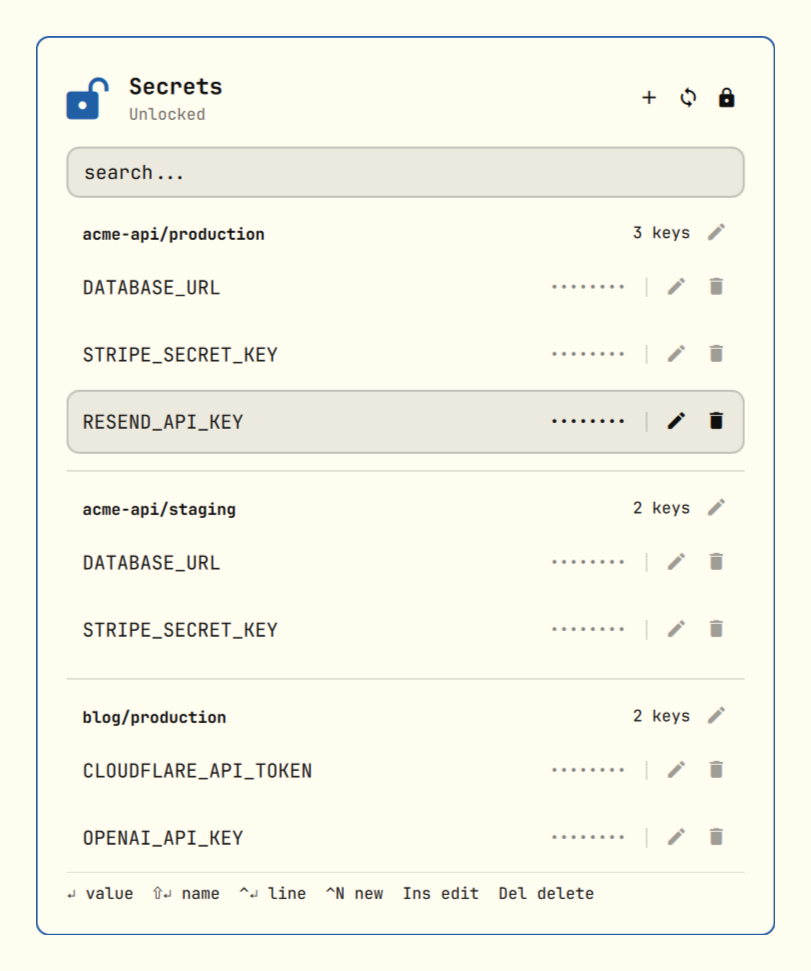
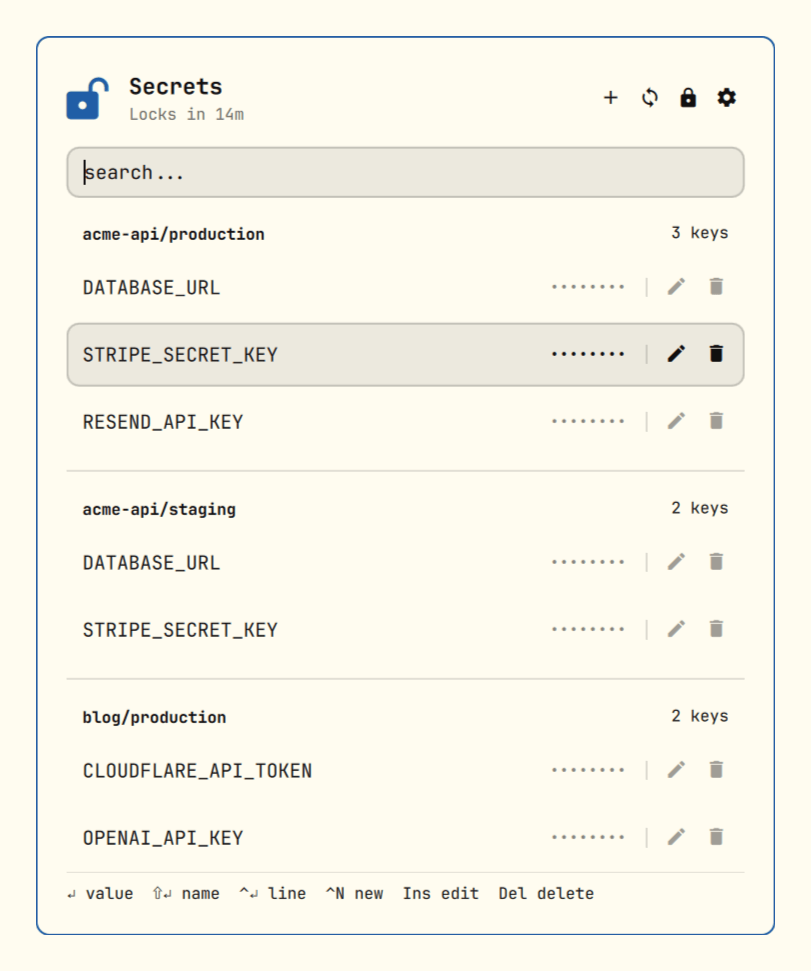
docs: retake preview, add settings screenshot
Both optimized with pngquant and oxipng.

diff --git a/README.md b/README.md
@@ -128,6 +128,8 @@ Run `secrets help` for the full list, including `backup-key`, `rotate` and `reke
 
 Open the settings from the gear icon, or with `Ctrl + ,`:
 
+![Secrets settings](preview-settings.png)
+
 - **Repo folder** - where the encrypted files live, `~/.local/share/secrets` by default. Point it at an existing secrets repo, or at an empty folder to start a new one there.
 - **Sync** - **GitHub** pushes every change to the remote you set, **Local only** commits but never pushes.
 - **Auto-lock after** - how long an unlock lasts, 15 minutes by default. Pick a preset on the slider, from 5 minutes up to never, or type any number of minutes (`0` never locks).
